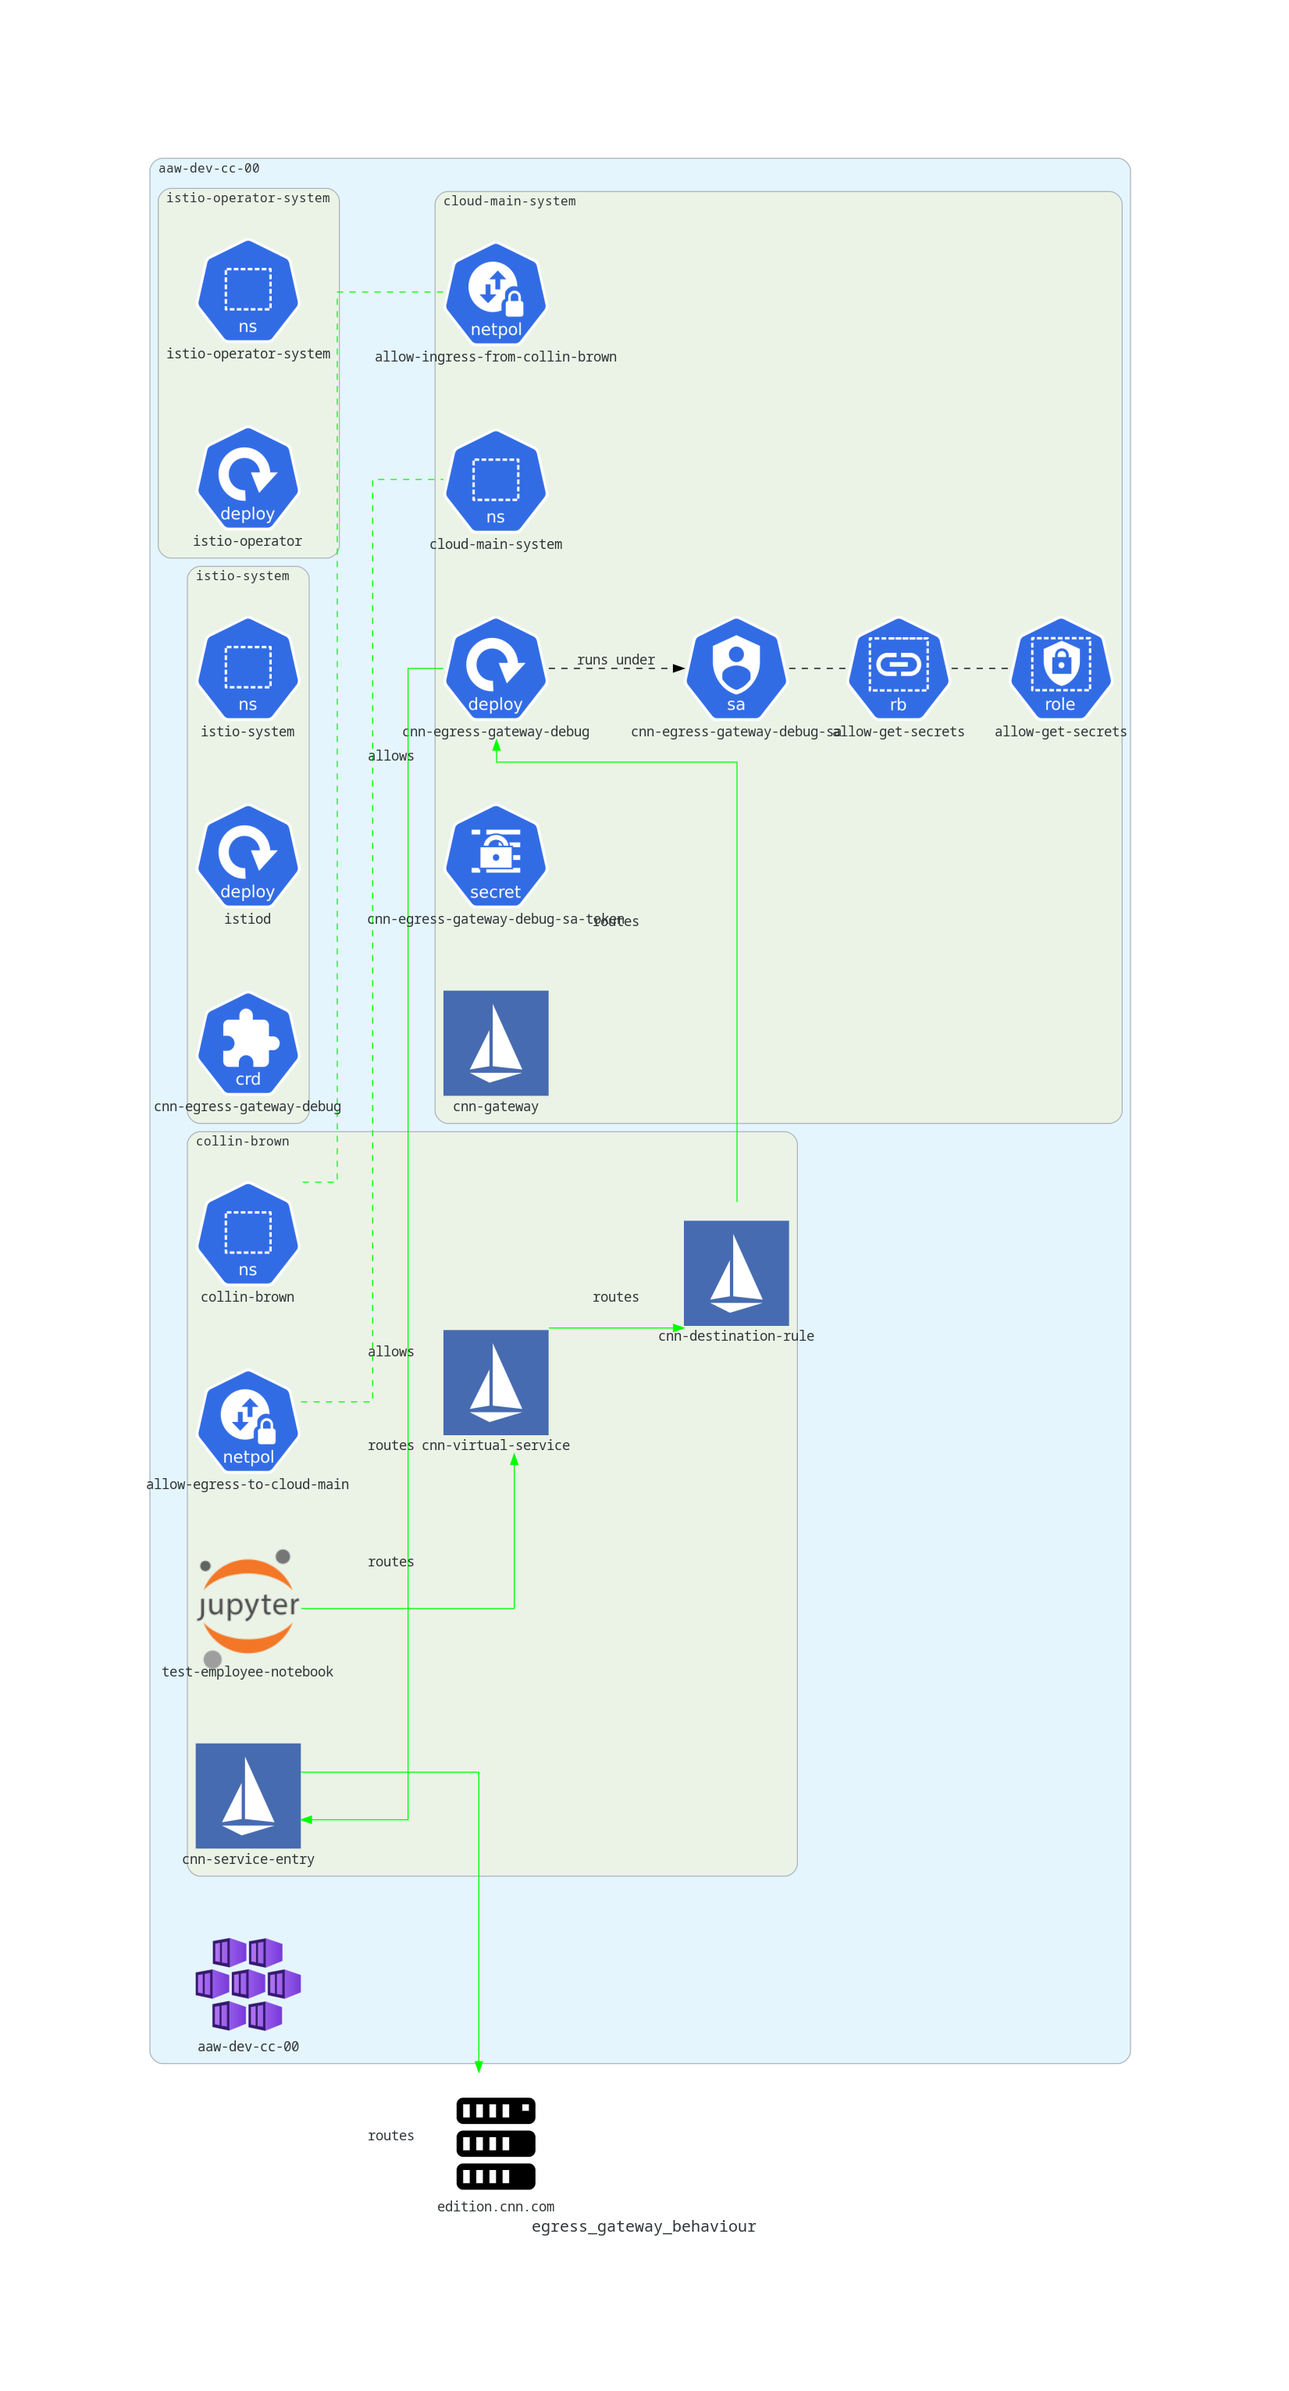
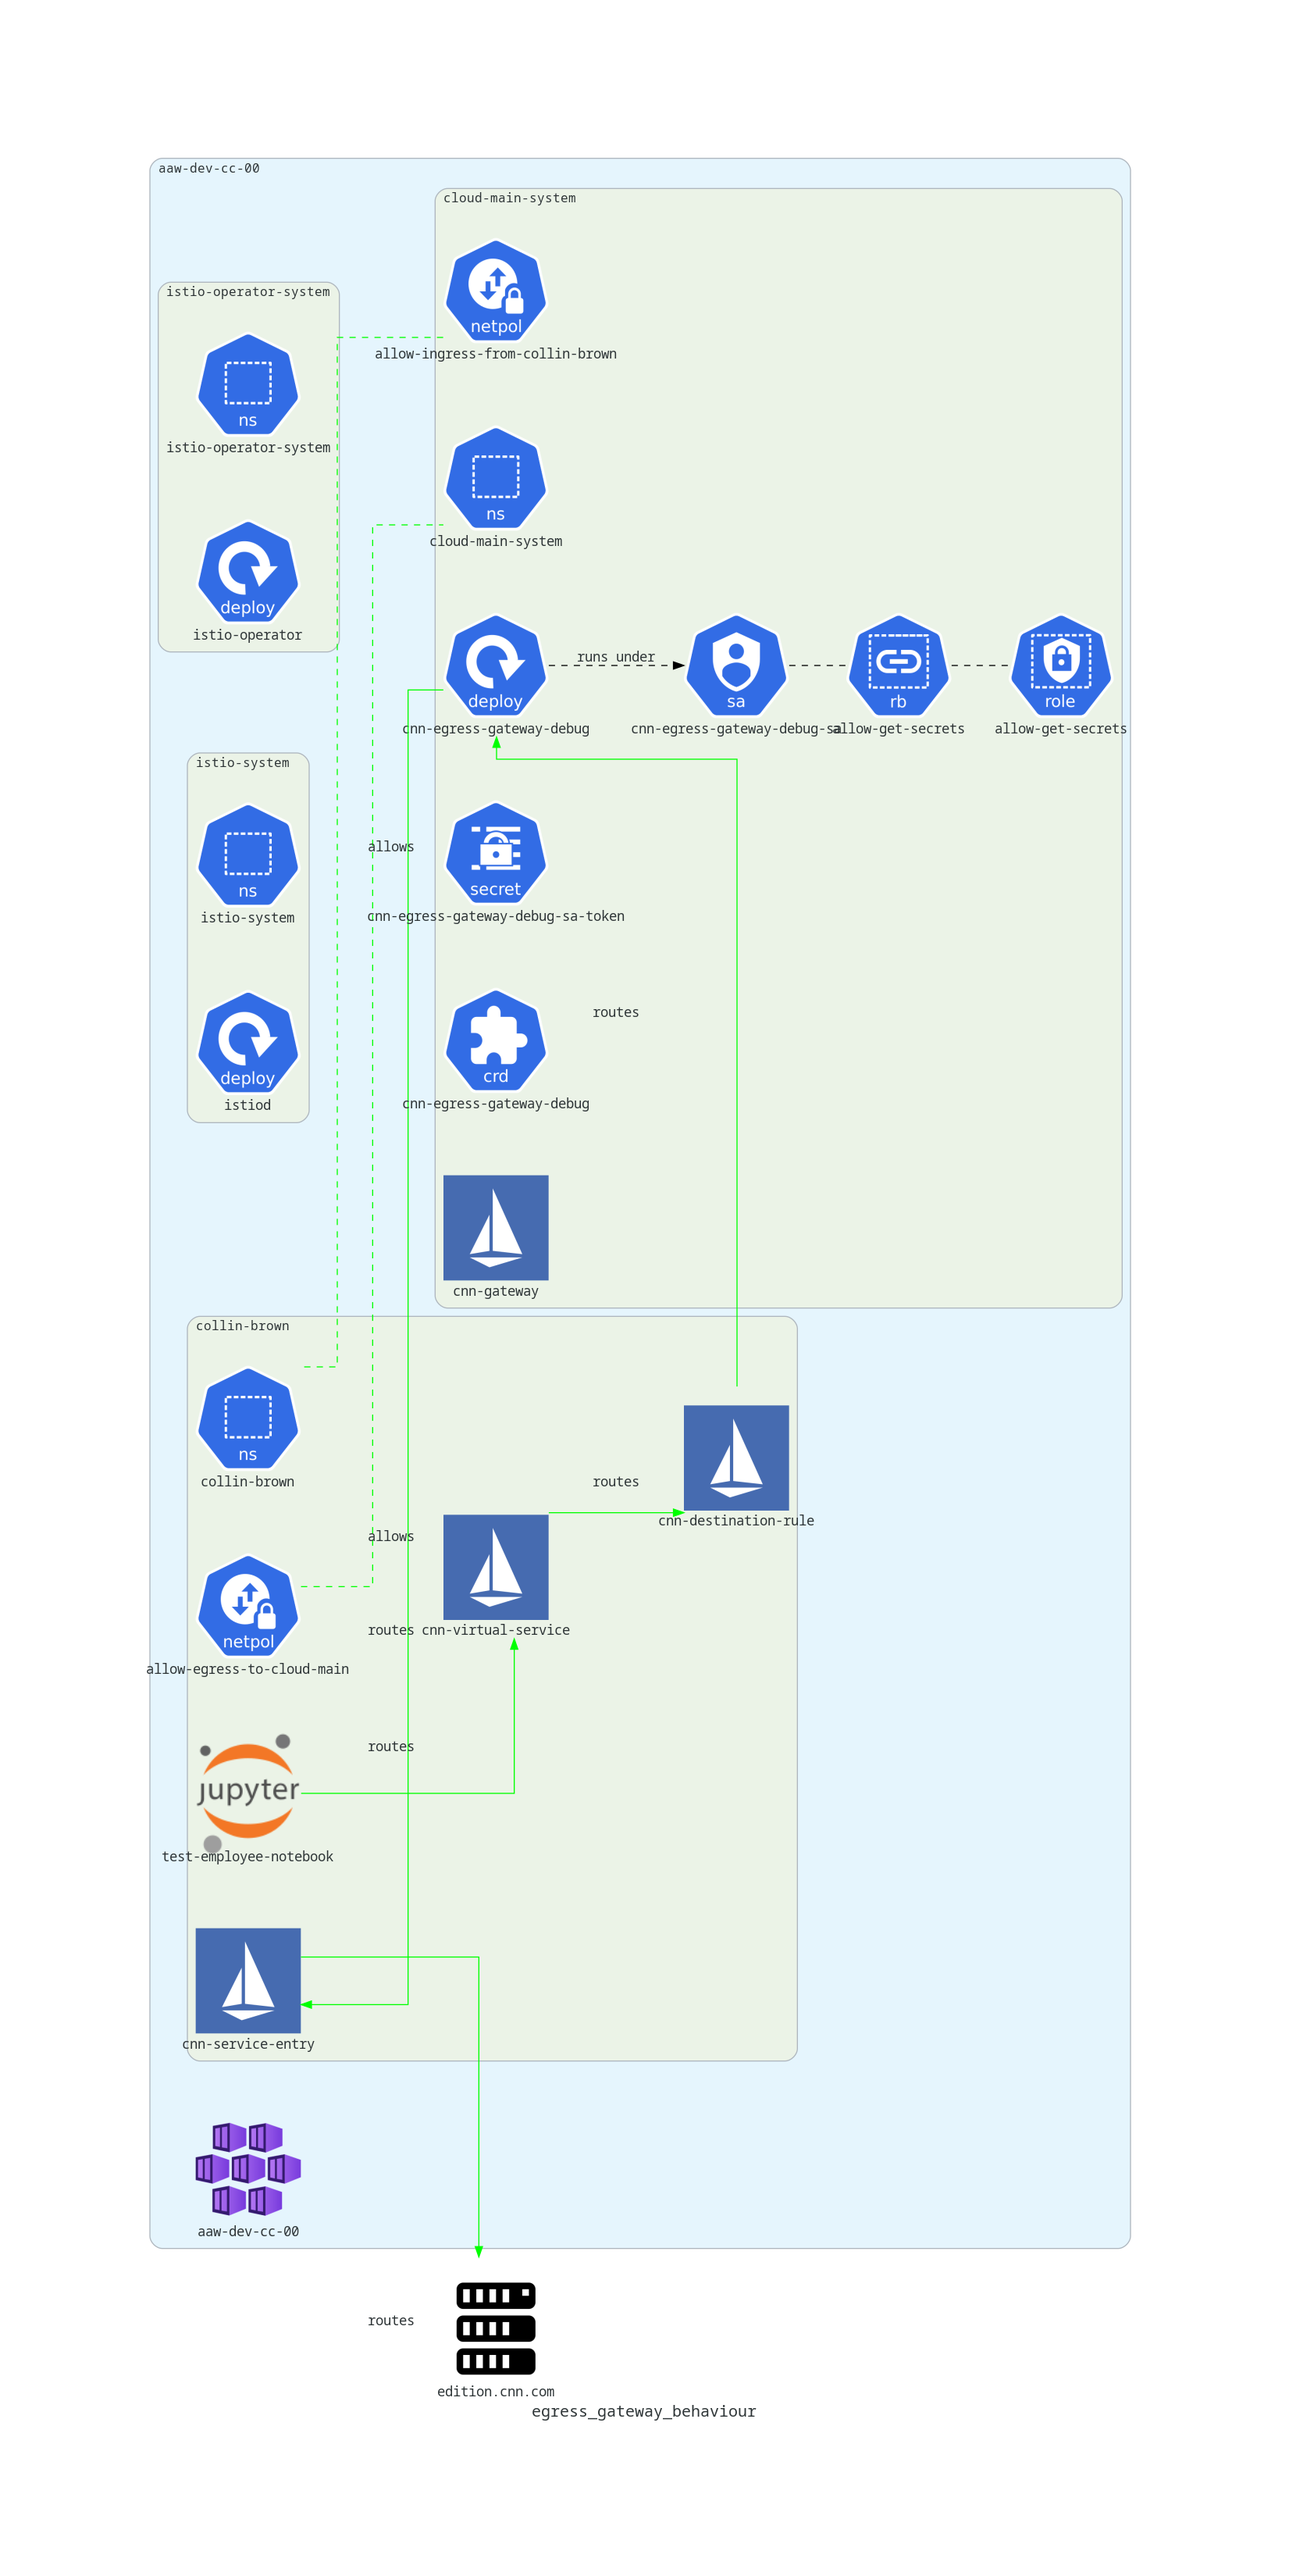
feat(istiooperator): deploy to cloud-main-system namespace instead of istio-system namespace

diff --git a/diagrams/egress_gateway_deployed_components.py b/diagrams/egress_gateway_deployed_components.py
@@ -28,12 +28,12 @@ with Diagram(myself(), show=False):
         with Cluster("istio-system"):
             istio_system_ns = NS("istio-system")
             istio_daemon = Deployment("istiod")
-            istio_operator = CRD("cnn-egress-gateway-debug")
         with Cluster("cloud-main-system"):
             cloud_main_system_ns = NS("cloud-main-system")
             cnn_egress_gateway_debug = Deployment("cnn-egress-gateway-debug")
             cnn_egress_gateway_debug_sa = ServiceAccount("cnn-egress-gateway-debug-sa")
             cnn_egress_gateway_debug_sa_token = Secret("cnn-egress-gateway-debug-sa-token")
+            istio_operator = CRD("cnn-egress-gateway-debug")
             # rbac
             allow_get_secrets_role = Role("allow-get-secrets")
             allow_get_secrets_rb = RoleBinding("allow-get-secrets")
@@ -52,7 +52,7 @@ with Diagram(myself(), show=False):
             cnn_service_entry = Custom("cnn-service-entry", icon_path="icons/istio.png")
 
         # Istio Operator Controller watches a set of namespaces for deployments of IstioOperator resources
-        istio_operator_controller >> Edge(style="dashed", color="black", label="watches") >> istio_system_ns
+        istio_operator_controller >> Edge(style="dashed", color="black", label="watches") >> cloud_main_system_ns
         # IstioOperator currently uses minimal profile and deploys istiod into istio-system namespace
         istio_operator >> Edge(style="dashed", color="purple", label="deploys") >> istio_daemon
         # IstioOperator currently deploys an egress gateway into the `cloud-main-system` namespace

diff --git a/diagrams/egress_gateway_behaviour.py b/diagrams/egress_gateway_behaviour.py
@@ -28,12 +28,12 @@ with Diagram(myself(), show=False):
         with Cluster("istio-system"):
             istio_system_ns = NS("istio-system")
             istio_daemon = Deployment("istiod")
-            istio_operator = CRD("cnn-egress-gateway-debug")
         with Cluster("cloud-main-system"):
             cloud_main_system_ns = NS("cloud-main-system")
             cnn_egress_gateway_debug = Deployment("cnn-egress-gateway-debug")
             cnn_egress_gateway_debug_sa = ServiceAccount("cnn-egress-gateway-debug-sa")
             cnn_egress_gateway_debug_sa_token = Secret("cnn-egress-gateway-debug-sa-token")
+            istio_operator = CRD("cnn-egress-gateway-debug")
             # rbac
             allow_get_secrets_role = Role("allow-get-secrets")
             allow_get_secrets_rb = RoleBinding("allow-get-secrets")
